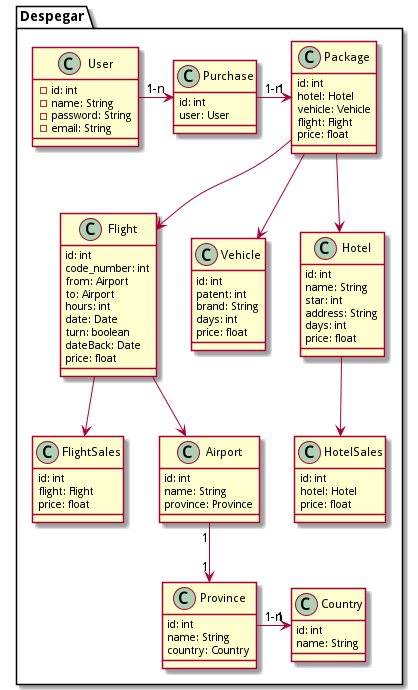
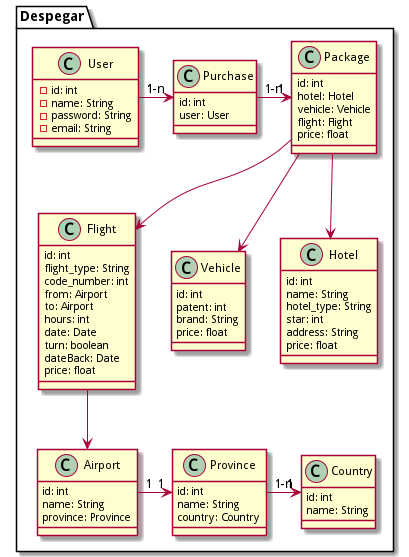
models updated

diff --git a/despegar/models.py b/despegar/models.py
@@ -1,78 +1,134 @@
 from django.db import models
-from django.core.validators import MinValueValidator,MaxValueValidator
+from django.core.validators import MinValueValidator, MaxValueValidator
 from django.db.models.deletion import CASCADE
 from django.db.models.fields import related
 
 # Create your models here.
 
+
 class Country(models.Model):
-    name = models.CharField(max_length=50,null=True)
+    name = models.CharField(max_length=50,
+            null=True)
 
     def __str__(self):
         return self.name
 
     class Meta:
-        verbose_name='Pais'
-        verbose_name_plural='Paises'
+        verbose_name = 'Country'
+        verbose_name_plural = 'Countries'
+
 
 class Province(models.Model):
     name = models.CharField(max_length=50)
-    country = models.ForeignKey(Country,on_delete=models.CASCADE,related_name='Pais',null=True)
+    country = models.ForeignKey(Country,
+                on_delete=models.CASCADE,
+                related_name='Country',
+                null=True)
 
     def __str__(self):
         return self.name + " - " + self.country.name
 
     class Meta:
-        verbose_name='Provincia'
-        verbose_name_plural='Provincias'
+        verbose_name = 'Province'
+        verbose_name_plural = 'Provinces'
+
 
 class Airport(models.Model):
     name = models.CharField(max_length=50)
-    province = models.ForeignKey(Province,on_delete=models.CASCADE,related_name='Provincia',null=True)
+    province = models.ForeignKey(Province,
+                on_delete=models.CASCADE,
+                related_name='Province',
+                null=True)
 
     def __str__(self):
         return self.name + " - " + self.province.name + " - " + self.province.country.name
 
+    def only_name(self):
+        return self.name
+
     class Meta:
-        verbose_name='Aeropuerto'
-        verbose_name_plural='Aeropuertos'
+        verbose_name = 'Airport'
+        verbose_name_plural = 'Airports'
+
 
 class Hotel(models.Model):
-    STARS = ((0,'0 estrellas'),
-            (1,'1 estrella'),
-            (2,'2 estrellas'),
-            (3,'3 estrellas'),
-            (4,'4 estrellas'),
-            (5,'5 estrellas'),
-    )
+    STARS = ((0, '0 estrellas'),
+             (1, '1 estrella'),
+             (2, '2 estrellas'),
+             (3, '3 estrellas'),
+             (4, '4 estrellas'),
+             (5, '5 estrellas'),
+             )
+
+    TYPE_NORMAL = "Normal"
+    TYPE_SALE = "Sale"
+    TYPE_CHOICES = {
+        (TYPE_NORMAL, 'Normal'),
+        (TYPE_SALE, 'Sale'),
+    }
+
     name = models.CharField(max_length=50)
-    stars = models.IntegerField(default=0,choices=STARS)
+    hotel_type = models.CharField(max_length=10,
+                    choices=TYPE_CHOICES,
+                    default='Normal',
+                    )
+    stars = models.IntegerField(default=0,
+                    choices=STARS)
     address = models.CharField(max_length=50)
-    price = models.FloatField()
+    priceperday = models.FloatField(verbose_name="Price per day",
+                    default=0.00)
+
+    def __str__(self):
+        return self.name
 
     class Meta:
-        verbose_name='Hotel'
-        verbose_name_plural='Hoteles'
+        verbose_name = 'Hotel'
+        verbose_name_plural = 'Hotels'
 
 
 class Vehicle(models.Model):
     patent = models.IntegerField()
     brand = models.CharField(max_length=20)
-    price = models.FloatField()
+    priceperday = models.FloatField(verbose_name="Price per day",
+                    default=0.00)
+
+    def __str__(self):
+        return (f"Vehicle: {self.patent} - {self.brand}")
 
     class Meta:
-        verbose_name='Vehiculo'
-        verbose_name_plural='Vehiculos'
+        verbose_name = 'Vehicle'
+        verbose_name_plural = 'Vehicles'
+
 
 class Flight(models.Model):
+
+    TYPE_NORMAL = "Normal"
+    TYPE_SALE = "Sale"
+    TYPE_CHOICES = {
+        (TYPE_NORMAL, 'Normal'),
+        (TYPE_SALE, 'Sale'),
+    }
+
     code_number = models.IntegerField()
-    airport_from = models.ForeignKey(Airport,on_delete=models.CASCADE,related_name='Desde')
-    airport_to = models.ForeignKey(Airport,on_delete=models.CASCADE,related_name='Hasta')
-    hours = models.IntegerField(default=0,validators=[MinValueValidator(0), MaxValueValidator(99)])
+    flight_type = models.CharField(max_length=10,
+                    choices=TYPE_CHOICES,
+                    default='Normal',
+                    )
+    airport_from = models.ForeignKey(Airport,
+                    on_delete=models.CASCADE,
+                    related_name='Desde')
+    airport_to = models.ForeignKey(Airport,
+                    on_delete=models.CASCADE,
+                    related_name='Hasta')
+    hours = models.IntegerField(default=0,
+                    validators=[MinValueValidator(0), MaxValueValidator(99)])
     date = models.DateField()
     turn = models.BooleanField(default=False)
     price = models.FloatField()
 
+    def __str__(self):
+        return (f"Flight: {self.code_number} - From: {self.airport_from.only_name()} - To: {self.airport_to.only_name()}")
+
     class Meta:
-        verbose_name='Vuelos'
-        verbose_name_plural='Vuelos'
+        verbose_name = 'Flight'
+        verbose_name_plural = 'Flights'

diff --git a/despegar/migrations/0005_auto_20220119_0219.py b/despegar/migrations/0005_auto_20220119_0219.py
@@ -1,0 +1,53 @@
+# Generated by Django 3.2.9 on 2022-01-19 02:19
+
+from django.db import migrations, models
+import django.db.models.deletion
+
+
+class Migration(migrations.Migration):
+
+    dependencies = [
+        ('despegar', '0004_alter_airport_province'),
+    ]
+
+    operations = [
+        migrations.AlterModelOptions(
+            name='airport',
+            options={'verbose_name': 'Airport', 'verbose_name_plural': 'Airports'},
+        ),
+        migrations.AlterModelOptions(
+            name='country',
+            options={'verbose_name': 'Country', 'verbose_name_plural': 'Countries'},
+        ),
+        migrations.AlterModelOptions(
+            name='flight',
+            options={'verbose_name': 'Flight', 'verbose_name_plural': 'Flights'},
+        ),
+        migrations.AlterModelOptions(
+            name='hotel',
+            options={'verbose_name': 'Hotel', 'verbose_name_plural': 'Hotels'},
+        ),
+        migrations.AlterModelOptions(
+            name='province',
+            options={'verbose_name': 'Province', 'verbose_name_plural': 'Provinces'},
+        ),
+        migrations.AlterModelOptions(
+            name='vehicle',
+            options={'verbose_name': 'Vehicle', 'verbose_name_plural': 'Vehicles'},
+        ),
+        migrations.AddField(
+            model_name='flight',
+            name='flight_type',
+            field=models.CharField(choices=[('Sale', 'Sale'), ('Normal', 'Normal')], default='Normal', max_length=10),
+        ),
+        migrations.AlterField(
+            model_name='airport',
+            name='province',
+            field=models.ForeignKey(null=True, on_delete=django.db.models.deletion.CASCADE, related_name='Province', to='despegar.province'),
+        ),
+        migrations.AlterField(
+            model_name='province',
+            name='country',
+            field=models.ForeignKey(null=True, on_delete=django.db.models.deletion.CASCADE, related_name='Country', to='despegar.country'),
+        ),
+    ]

diff --git a/despegar/migrations/0006_auto_20220119_0228.py b/despegar/migrations/0006_auto_20220119_0228.py
@@ -1,0 +1,27 @@
+# Generated by Django 3.2.9 on 2022-01-19 02:28
+
+from django.db import migrations, models
+
+
+class Migration(migrations.Migration):
+
+    dependencies = [
+        ('despegar', '0005_auto_20220119_0219'),
+    ]
+
+    operations = [
+        migrations.RemoveField(
+            model_name='vehicle',
+            name='price',
+        ),
+        migrations.AddField(
+            model_name='vehicle',
+            name='priceperday',
+            field=models.FloatField(default=0.0, verbose_name='Price per day'),
+        ),
+        migrations.AlterField(
+            model_name='flight',
+            name='flight_type',
+            field=models.CharField(choices=[('Normal', 'Normal'), ('Sale', 'Sale')], default='Normal', max_length=10),
+        ),
+    ]

diff --git a/despegar/migrations/0008_auto_20220119_0235.py b/despegar/migrations/0008_auto_20220119_0235.py
@@ -1,0 +1,23 @@
+# Generated by Django 3.2.9 on 2022-01-19 02:35
+
+from django.db import migrations, models
+
+
+class Migration(migrations.Migration):
+
+    dependencies = [
+        ('despegar', '0007_alter_flight_flight_type'),
+    ]
+
+    operations = [
+        migrations.AddField(
+            model_name='hotel',
+            name='hotel_type',
+            field=models.CharField(choices=[('Normal', 'Normal'), ('Sale', 'Sale')], default='Normal', max_length=10),
+        ),
+        migrations.AlterField(
+            model_name='flight',
+            name='flight_type',
+            field=models.CharField(choices=[('Normal', 'Normal'), ('Sale', 'Sale')], default='Normal', max_length=10),
+        ),
+    ]

diff --git a/despegar/migrations/0009_auto_20220119_0241.py b/despegar/migrations/0009_auto_20220119_0241.py
@@ -1,0 +1,22 @@
+# Generated by Django 3.2.9 on 2022-01-19 02:41
+
+from django.db import migrations, models
+
+
+class Migration(migrations.Migration):
+
+    dependencies = [
+        ('despegar', '0008_auto_20220119_0235'),
+    ]
+
+    operations = [
+        migrations.RemoveField(
+            model_name='hotel',
+            name='price',
+        ),
+        migrations.AddField(
+            model_name='hotel',
+            name='priceperday',
+            field=models.FloatField(default=0.0, verbose_name='Price per day'),
+        ),
+    ]

diff --git a/despegar/migrations/0007_alter_flight_flight_type.py b/despegar/migrations/0007_alter_flight_flight_type.py
@@ -1,0 +1,18 @@
+# Generated by Django 3.2.9 on 2022-01-19 02:32
+
+from django.db import migrations, models
+
+
+class Migration(migrations.Migration):
+
+    dependencies = [
+        ('despegar', '0006_auto_20220119_0228'),
+    ]
+
+    operations = [
+        migrations.AlterField(
+            model_name='flight',
+            name='flight_type',
+            field=models.CharField(choices=[('Sale', 'Sale'), ('Normal', 'Normal')], default='Normal', max_length=10),
+        ),
+    ]

diff --git a/core/urls.py b/core/urls.py
@@ -1,8 +1,10 @@
 from django.contrib import admin
 from django.urls import path, include
 
+from . import views
 
 urlpatterns = [
+    path('', views.home),
     path('admin/', admin.site.urls),
     path('api/', include('despegar.urls', 'despegar')),
 
